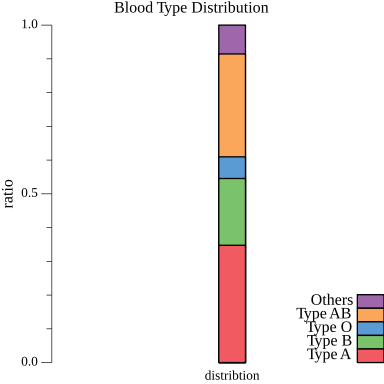
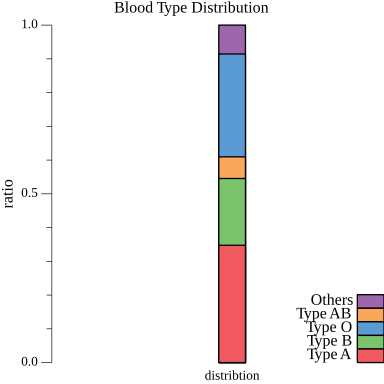
modify

Changed region(s): [[0.5625, 0.125, 0.6562, 0.4688]]

diff --git a/bloodtype.go b/bloodtype.go
@@ -93,8 +93,8 @@ func plotBar(data []float64) {
 func plotBand(data []float64) {
 	vA := plotter.Values{data[0]}
 	vB := plotter.Values{data[0] + data[1]}
-	vO := plotter.Values{data[0] + data[1] + data[2]}
-	vAB := plotter.Values{data[0] + data[1] + data[2] + data[3]}
+	vAB := plotter.Values{data[0] + data[1] + data[2]}
+	vO := plotter.Values{data[0] + data[1] + data[2] + data[3]}
 	vOther := plotter.Values{data[0] + data[1] + data[2] + data[3] + data[4]}
 
 	w := vg.Points(20)
@@ -115,8 +115,8 @@ func plotBand(data []float64) {
 	barOther.Color = plotutil.Color(4)
 
 	p.Add(barOther)
-	p.Add(barAB)
 	p.Add(barO)
+	p.Add(barAB)
 	p.Add(barB)
 	p.Add(barA)
 	p.NominalX("distribtion")
@@ -160,8 +160,8 @@ func pieChart(data []float64) {
 
 	pies[0].Labels.Nominal = []string{"Type A"}
 	pies[1].Labels.Nominal = []string{"Type B"}
-	pies[2].Labels.Nominal = []string{"Type O"}
-	pies[3].Labels.Nominal = []string{"Type AB"}
+	pies[2].Labels.Nominal = []string{"Type AB"}
+	pies[3].Labels.Nominal = []string{"Type O"}
 	pies[4].Labels.Nominal = []string{"Others"}
 
 	p.Add(pies[0], pies[1], pies[2], pies[3], pies[4])

diff --git a/main.go b/main.go
@@ -1,7 +1,7 @@
 package main
 
 func main() {
-	//Bloodtype_mainprocess("./BloodType2026.csv")
+	Bloodtype_mainprocess("./BloodType2026.csv")
 	//Kinokotakenoko_mainprocess("./KinokoTakenoko2026.csv")
-	temp_mainprocess("./KyotoTemp2022.csv")
+	//temp_mainprocess("./KyotoTemp2022.csv")
 }
